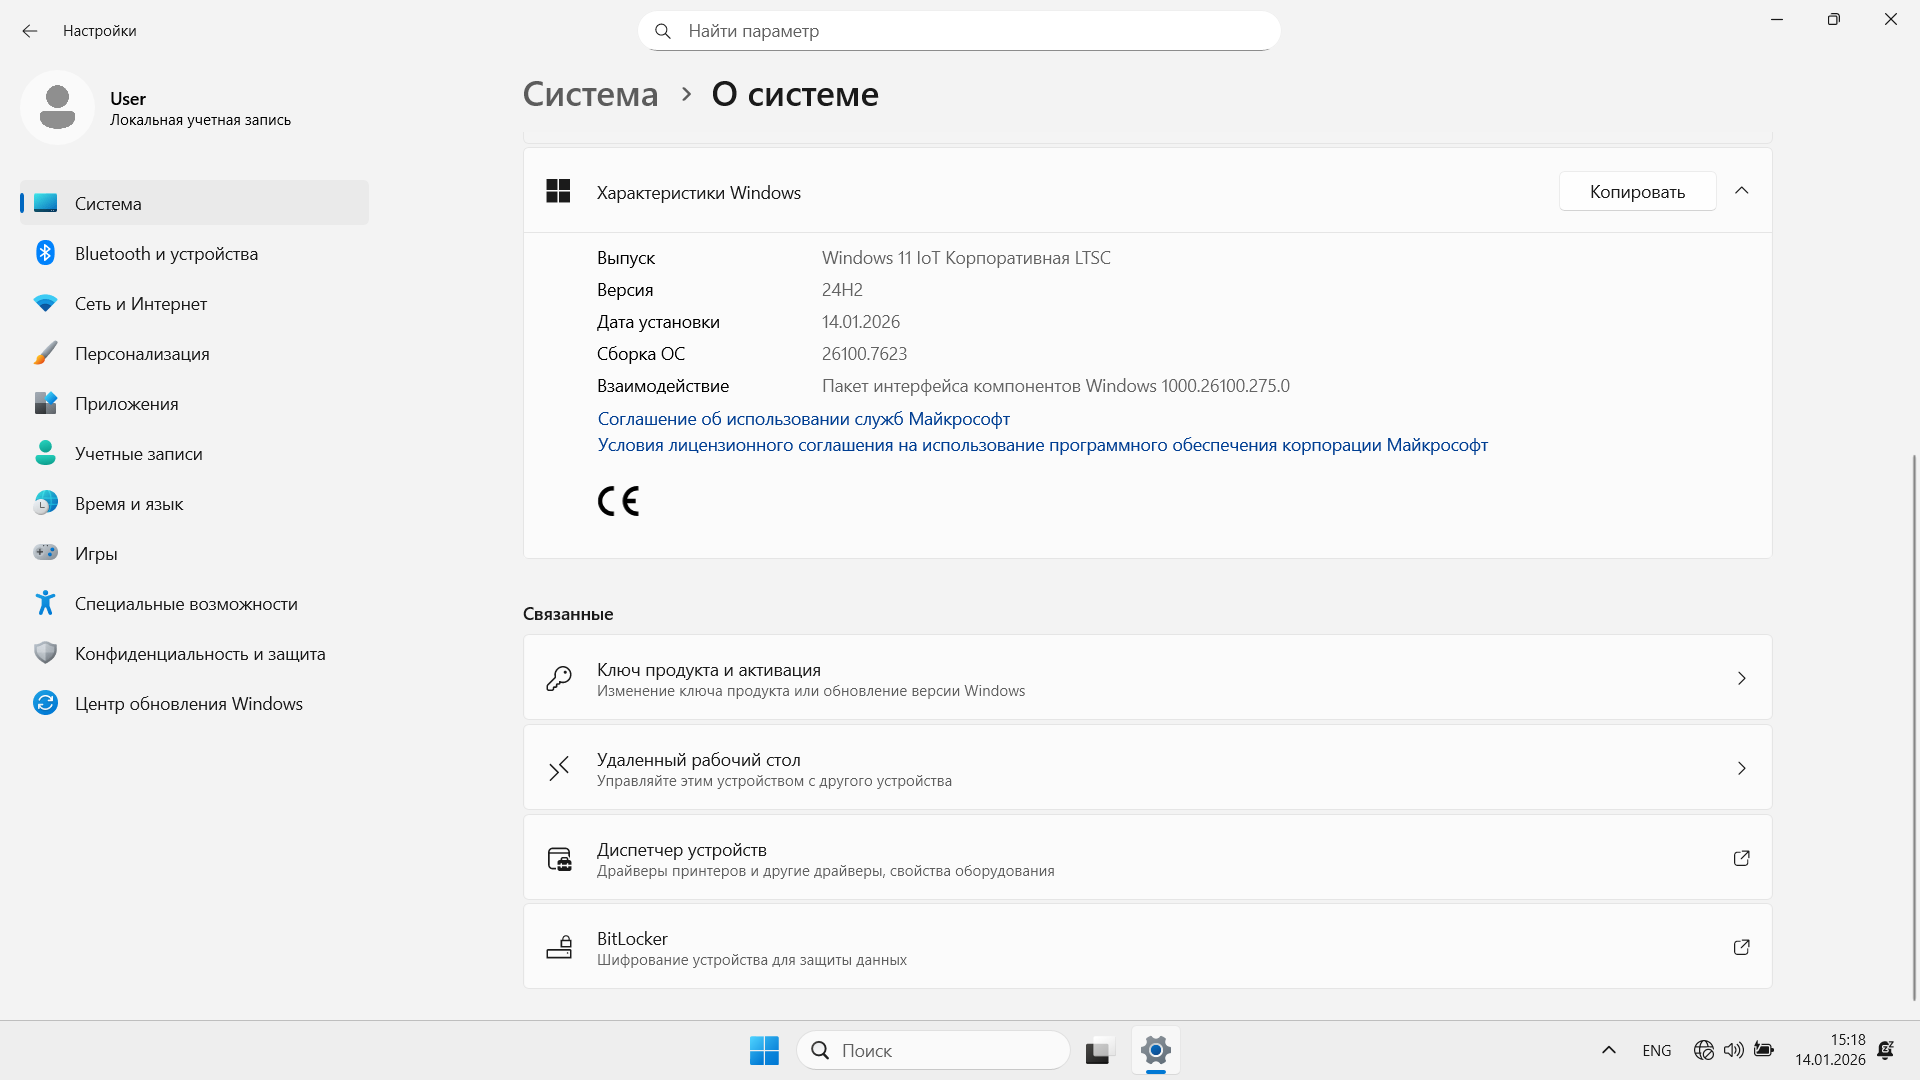
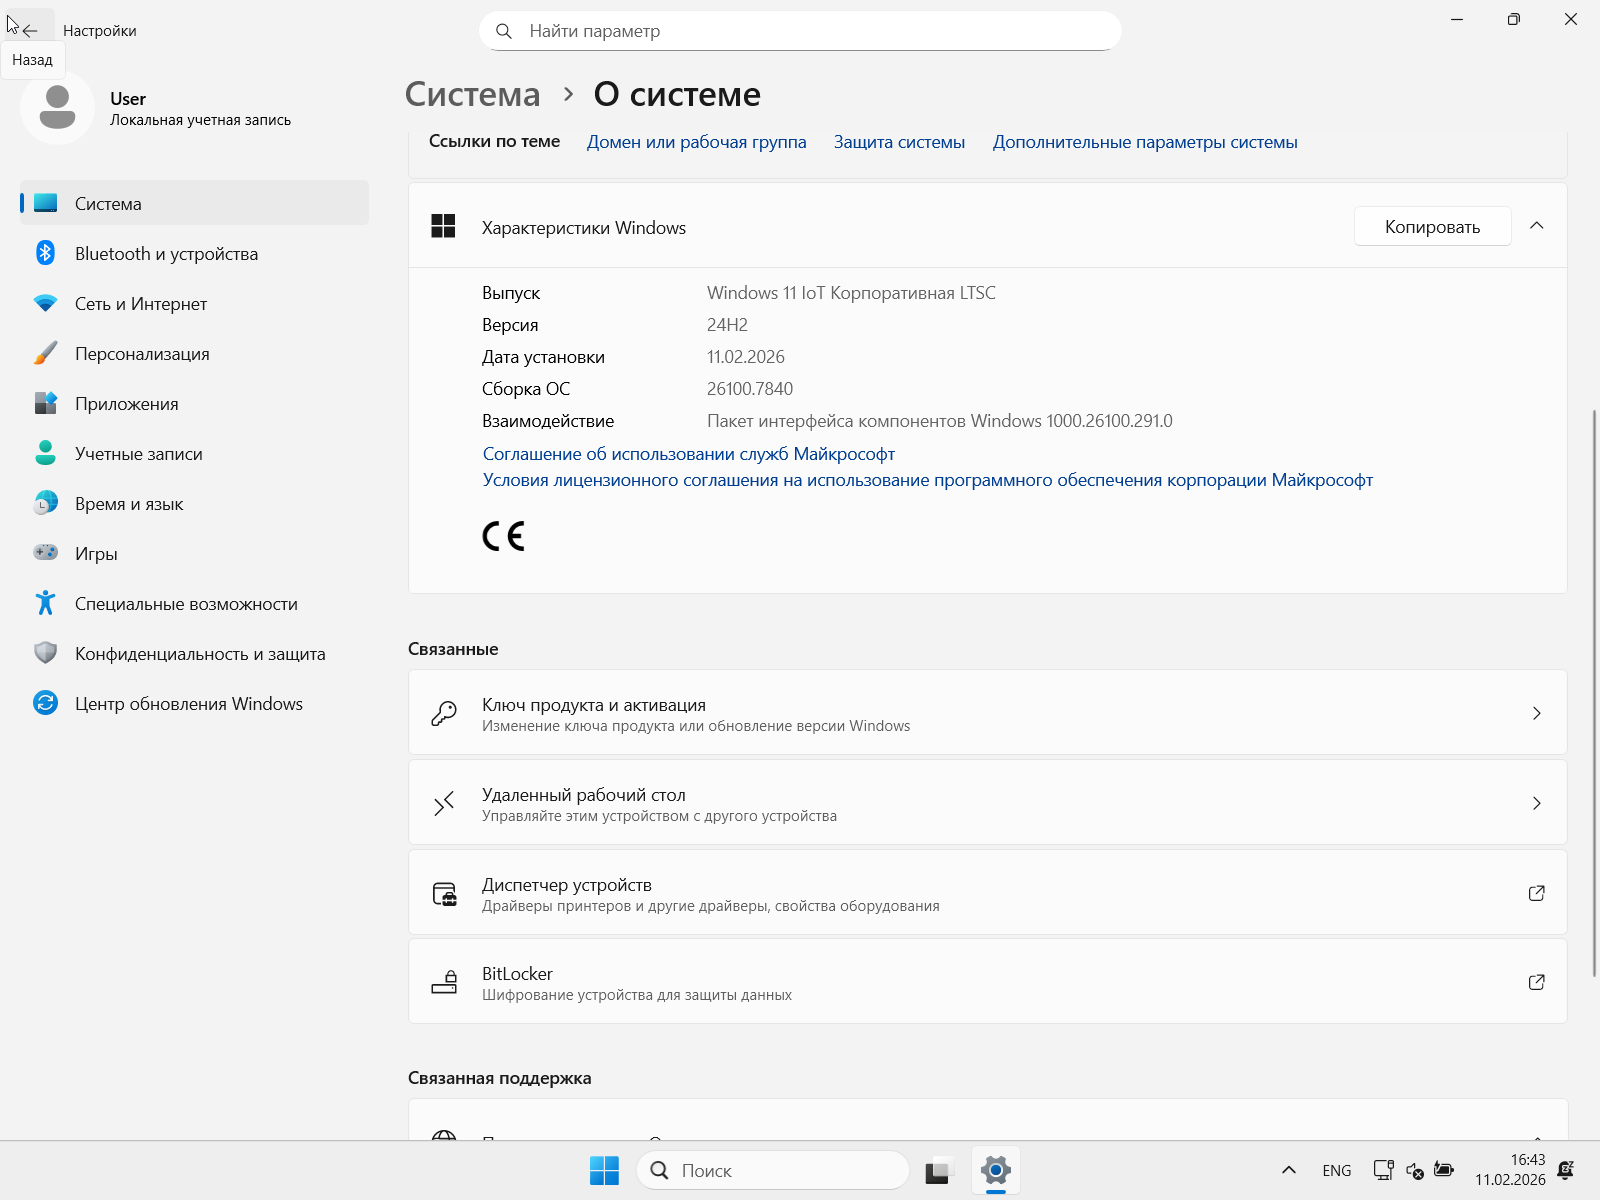
update

diff --git a/windows-11-en/index.html b/windows-11-en/index.html
@@ -58,7 +58,7 @@
             <div class="card-text"><a href="/" class="return-link"><span class="lang-en"><b>Return to Home</b></span><span class="lang-ru"><b>Вернуться на главную</b></span></a></div>
             <div class="card-text"><span class="lang-en">Language: English</span><span class="lang-ru">Язык: Английский</span></div>
             <div class="card-text"><span class="lang-en">Windows 11 IoT Enterprise LTSC (Long-Term Servicing Channel) is a lightweight version of Windows with long-term support, designed for stable performance on embedded devices and specialized systems. It excludes unnecessary apps, reducing system requirements and making it an ideal solution where reliability and minimal interference are critical.</span><span class="lang-ru">Windows 11 IoT Enterprise LTSC (Long-Term Servicing Channel) — это облегченная версия Windows с долгосрочной поддержкой, разработанная для стабильной работы на встраиваемых устройствах и специализированных системах. Она исключает ненужные приложения, снижая системные требования и делая ее идеальным решением там, где критически важны надежность и минимальное вмешательство.</span></div>
-            <div class="updated"><span class="lang-en"><b>TPM, Secure Boot, and OOBE checks are disabled,<br>Updated to 26100.7623 (January 2026) by somov</b></span><span class="lang-ru"><b>Проверки TPM, Secure Boot и OOBE отключены,<br>Обновлено до 26100.7623 (Январь 2026) by somov</b></span></div>
+            <div class="updated"><span class="lang-en"><b>TPM, Secure Boot, and OOBE checks are disabled,<br>Updated to 26100.7840 (February 2026) by somov</b></span><span class="lang-ru"><b>Проверки TPM, Secure Boot и OOBE отключены,<br>Обновлено до 26100.7840 (Февраль 2026) by somov</b></span></div>
             <div class="card-text"><span class="lang-en"><b>System Requirements:</b></span><span class="lang-ru"><b>Системные требования:</b></span></div>
             <div class="card-text">
               <ol class="marker-list">
@@ -71,13 +71,13 @@
             </div>
             <div class="card-text"><span class="lang-en"><b>Image checksums:</b></span><span class="lang-ru"><b>Контрольные суммы образа:</b></span></div>
             <div class="card-text">
-              <ol class="marker-list"><li><b>CRC32:</b> df8c9e0d</li>
-              <li><b>MD5:</b> ed089e43e13dfd164a3e614de5190985</li>
-              <li><b>SHA-1:</b> 270de871c648208c94b737faf52f3cac08cf5b8d</li>
+              <ol class="marker-list"><li><b>CRC32:</b> 1cdebf70</li>
+              <li><b>MD5:</b> 9bc4ed0801b86a0e84af34fa4823c0ac</li>
+              <li><b>SHA-1:</b> de0ac0b2cb92c01ec540aba8689aabe03955b611</li>
             </ol></div>
             <div class="button-container">
-            <a class="btn-windows" href="https://dl3.somov.org/en-us_windows_11_iot_enterprise_ltsc_2024_x64_26100.7623_by_somov.iso"><span class="lang-en">Download</span><span class="lang-ru">Скачать</span></a>
-            <a class="torrent-link" href="https://dl.somov.org/en-us_windows_11_iot_enterprise_ltsc_2024_x64_26100.7623_by_somov.iso.torrent"><span class="lang-en">Download by torrent</span><span class="lang-ru">Скачать с помощью torrent</span></a>
+            <a class="btn-windows" href="https://dl3.somov.org/en-us_windows_11_iot_enterprise_ltsc_2024_x64_26100.7840_by_somov.iso"><span class="lang-en">Download</span><span class="lang-ru">Скачать</span></a>
+            <a class="torrent-link" href="https://dl.somov.org/en-us_windows_11_iot_enterprise_ltsc_2024_x64_26100.7840_by_somov.iso.torrent"><span class="lang-en">Download by torrent</span><span class="lang-ru">Скачать с помощью torrent</span></a>
             </div>
   <div class="full-width-section">
     <div class="gallery">

diff --git a/windows-11-ru/index.html b/windows-11-ru/index.html
@@ -58,7 +58,7 @@
             <div class="card-text"><a href="/" class="return-link"><span class="lang-en"><b>Return to Home</b></span><span class="lang-ru"><b>На главную</b></span></a></div>
             <div class="card-text"><span class="lang-en">Language: Russian</span><span class="lang-ru">Язык: Русский</span></div>
             <div class="card-text"><span class="lang-en">Windows 11 IoT Enterprise LTSC (Long-Term Servicing Channel) is a lightweight version of Windows with long-term support, designed for stable performance on embedded devices and specialized systems. It excludes unnecessary apps, reducing system requirements and making it an ideal solution where reliability and minimal interference are critical.</span><span class="lang-ru">Windows 11 IoT Enterprise LTSC (Long-Term Servicing Channel) — это облегчённая версия Windows с долгосрочной поддержкой, разработанная для стабильной работы на встраиваемых устройствах и специализированных системах. Она лишена лишних приложений, что снижает системные требования и делает её идеальным решением, где важны надёжность и минимальное вмешательство.</span></div>
-            <div class="updated"><span class="lang-en"><b>TPM, Secure Boot, and OOBE checks are disabled,<br>Updated to 26100.7623 (January 2026) by somov</b></span><span class="lang-ru"><b>Проверки TPM, Secure Boot и OOBE отключены,<br>Обновлено до 26100.7623 (Январь 2026) by somov</b></span></div>
+            <div class="updated"><span class="lang-en"><b>TPM, Secure Boot, and OOBE checks are disabled,<br>Updated to 26100.7840 (February 2026) by somov</b></span><span class="lang-ru"><b>Проверки TPM, Secure Boot и OOBE отключены,<br>Обновлено до 26100.7840 (Февраль 2026) by somov</b></span></div>
             <div class="card-text"><span class="lang-en"><b>System Requirements:</b></span><span class="lang-ru"><b>Системные требования:</b></span></div>
             <div class="card-text">
               <ol class="marker-list">
@@ -71,13 +71,13 @@
             </div>
             <div class="card-text"><span class="lang-en"><b>Image checksums:</b></span><span class="lang-ru"><b>Контрольные суммы:</b></span></div>
             <div class="card-text">
-              <ol class="marker-list"><li><b>CRC32:</b> a6034360</li>
-              <li><b>MD5:</b> 5a648c522c8d6a983511a3a662d095a8</li>
-              <li><b>SHA-1:</b> ab8253dd3638e3aca1dca9e10c02adce29550918</li>
+              <ol class="marker-list"><li><b>CRC32:</b> b2be58ae</li>
+              <li><b>MD5:</b> 3ccf7a54baf5161393c2c5aa18f0e0a2</li>
+              <li><b>SHA-1:</b> ff2d3034a0b9fe0e711fbeba7e2ed61ffc7b3517</li>
             </ol></div>
             <div class="button-container">
-            <a class="btn-windows" href="https://dl3.somov.org/ru-ru_windows_11_iot_enterprise_ltsc_2024_x64_26100.7623_by_somov.iso"><span class="lang-en">Download</span><span class="lang-ru">Скачать</span></a>
-            <a class="torrent-link" href="https://dl.somov.org/ru-ru_windows_11_iot_enterprise_ltsc_2024_x64_26100.7623_by_somov.iso.torrent"><span class="lang-en">Download by torrent</span><span class="lang-ru">Скачать с помощью torrent</span></a>
+            <a class="btn-windows" href="https://dl3.somov.org/ru-ru_windows_11_iot_enterprise_ltsc_2024_x64_26100.7840_by_somov.iso"><span class="lang-en">Download</span><span class="lang-ru">Скачать</span></a>
+            <a class="torrent-link" href="https://dl.somov.org/ru-ru_windows_11_iot_enterprise_ltsc_2024_x64_26100.7840_by_somov.iso.torrent"><span class="lang-en">Download by torrent</span><span class="lang-ru">Скачать с помощью torrent</span></a>
             </div>
   <div class="full-width-section">
     <div class="gallery">

diff --git a/index.html b/index.html
@@ -71,7 +71,7 @@
             </a>
             <div class="card-details">
               <span class="lang-en">Language: English<br></span><span class="lang-ru">Язык: Английский<br></span>
-              <span class="lang-en">Update: 26100.7623 (January 2026)<br></span><span class="lang-ru">Обновление: 26100.7623 (Январь 2026)<br></span>
+              <span class="lang-en">Update: 26100.7840 (February 2026)<br></span><span class="lang-ru">Обновление: 26100.7840 (Февраль 2026)<br></span>
               <span class="lang-en">Edition: IoT Enterprise LTSC<br></span><span class="lang-ru">Издание: IoT Enterprise LTSC<br></span>
               <span class="lang-en">Version: 24H2<br></span><span class="lang-ru">Версия: 24H2<br></span>
               <span class="lang-en">Author: somov<br></span><span class="lang-ru">Автор: somov<br></span>
@@ -84,8 +84,8 @@
         </div>
         <div class="card-right">
           <div class="card-actions">
-            <a class="btn" href="https://dl3.somov.org/en-us_windows_11_iot_enterprise_ltsc_2024_x64_26100.7623_by_somov.iso"><span class="lang-en">Download</span><span class="lang-ru">Скачать</span></a>
-            <a class="torrent-link" href="https://dl.somov.org/en-us_windows_11_iot_enterprise_ltsc_2024_x64_26100.7623_by_somov.iso.torrent"><span class="lang-en">Download by torrent</span><span class="lang-ru">Скачать с помощью torrent</span></a>
+            <a class="btn" href="https://dl3.somov.org/en-us_windows_11_iot_enterprise_ltsc_2024_x64_26100.7840_by_somov.iso"><span class="lang-en">Download</span><span class="lang-ru">Скачать</span></a>
+            <a class="torrent-link" href="https://dl.somov.org/en-us_windows_11_iot_enterprise_ltsc_2024_x64_26100.7840_by_somov.iso.torrent"><span class="lang-en">Download by torrent</span><span class="lang-ru">Скачать с помощью torrent</span></a>
           </div>
         </div>
       </section>
@@ -138,7 +138,7 @@
             </a>
             <div class="card-details">
               <span class="lang-en">Language: Russian<br></span><span class="lang-ru">Язык: Русский<br></span>
-              <span class="lang-en">Update: 26100.7623 (January 2026)<br></span><span class="lang-ru">Обновление: 26100.7623 (Январь 2026)<br></span>
+              <span class="lang-en">Update: 26100.7840 (February 2026)<br></span><span class="lang-ru">Обновление: 26100.7840 (Февраль 2026)<br></span>
               <span class="lang-en">Edition: IoT Enterprise LTSC<br></span><span class="lang-ru">Издание: IoT Enterprise LTSC<br></span>
               <span class="lang-en">Version: 24H2<br></span><span class="lang-ru">Версия: 24H2<br></span>
               <span class="lang-en">Author: somov<br></span><span class="lang-ru">Автор: somov<br></span>
